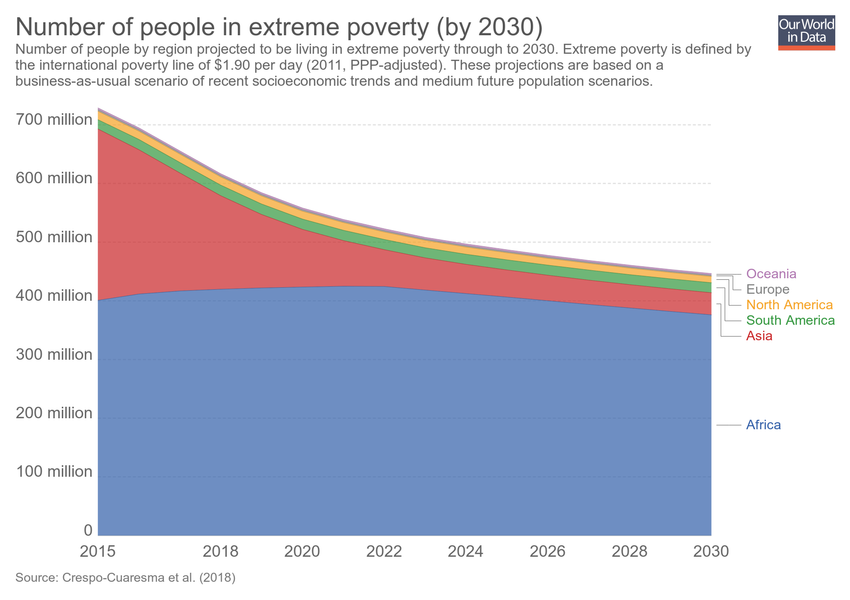
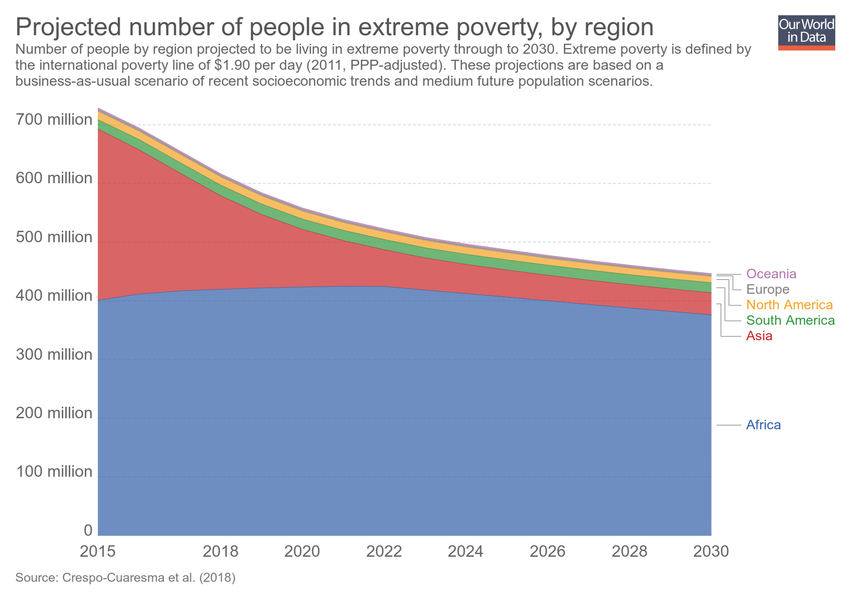
Updating chart extreme-poverty-region-2030

Changed region(s): [[0.0, 0.03, 0.7647, 0.06]]

diff --git a/grapher/extreme-poverty-region-2030.html b/grapher/extreme-poverty-region-2030.html
@@ -1,4 +1,4 @@
-<!doctype html><html><head><meta name="viewport" content="width=device-width, initial-scale=1" /><title>Number of people in extreme poverty (by 2030) - Our World in Data</title><meta name="description" content="Number of people by region projected to be living in extreme poverty through to 2030. Extreme poverty is defined by the international poverty line of $1.90 per day (2011, PPP-adjusted). These projections are based on a business-as-usual scenario of recent socioeconomic trends and medium future population scenarios." /><link rel="canonical" href="https://ourworldindata.org/grapher/extreme-poverty-region-2030" /><meta property="fb:app_id" content="1149943818390250" /><meta property="og:url" content="https://ourworldindata.org/grapher/extreme-poverty-region-2030" /><meta property="og:title" content="Number of people in extreme poverty (by 2030)" /><meta property="og:description" content="Number of people by region projected to be living in extreme poverty through to 2030. Extreme poverty is defined by the international poverty line of $1.90 per day (2011, PPP-adjusted). These projections are based on a business-as-usual scenario of recent socioeconomic trends and medium future population scenarios." /><meta property="og:image" content="https://ourworldindata.org/grapher/exports/extreme-poverty-region-2030.png?v=1" /><meta property="og:image:width" content="850" /><meta property="og:image:height" content="600" /><meta property="og:site_name" content="Our World in Data" /><meta name="twitter:card" content="summary_large_image" /><meta name="twitter:site" content="@OurWorldInData" /><meta name="twitter:creator" content="@OurWorldInData" /><meta name="twitter:title" content="Number of people in extreme poverty (by 2030)" /><meta name="twitter:description" content="Number of people by region projected to be living in extreme poverty through to 2030. Extreme poverty is defined by the international poverty line of $1.90 per day (2011, PPP-adjusted). These projections are based on a business-as-usual scenario of recent socioeconomic trends and medium future population scenarios." /><meta name="twitter:image" content="https://ourworldindata.org/grapher/exports/extreme-poverty-region-2030.png?v=1" /><style>
+<!doctype html><html><head><meta name="viewport" content="width=device-width, initial-scale=1" /><title>Projected number of people in extreme poverty, by region - Our World in Data</title><meta name="description" content="Number of people by region projected to be living in extreme poverty through to 2030. Extreme poverty is defined by the international poverty line of $1.90 per day (2011, PPP-adjusted). These projections are based on a business-as-usual scenario of recent socioeconomic trends and medium future population scenarios." /><link rel="canonical" href="https://ourworldindata.org/grapher/extreme-poverty-region-2030" /><meta property="fb:app_id" content="1149943818390250" /><meta property="og:url" content="https://ourworldindata.org/grapher/extreme-poverty-region-2030" /><meta property="og:title" content="Projected number of people in extreme poverty, by region" /><meta property="og:description" content="Number of people by region projected to be living in extreme poverty through to 2030. Extreme poverty is defined by the international poverty line of $1.90 per day (2011, PPP-adjusted). These projections are based on a business-as-usual scenario of recent socioeconomic trends and medium future population scenarios." /><meta property="og:image" content="https://ourworldindata.org/grapher/exports/extreme-poverty-region-2030.png?v=2" /><meta property="og:image:width" content="850" /><meta property="og:image:height" content="600" /><meta property="og:site_name" content="Our World in Data" /><meta name="twitter:card" content="summary_large_image" /><meta name="twitter:site" content="@OurWorldInData" /><meta name="twitter:creator" content="@OurWorldInData" /><meta name="twitter:title" content="Projected number of people in extreme poverty, by region" /><meta name="twitter:description" content="Number of people by region projected to be living in extreme poverty through to 2030. Extreme poverty is defined by the international poverty line of $1.90 per day (2011, PPP-adjusted). These projections are based on a business-as-usual scenario of recent socioeconomic trends and medium future population scenarios." /><meta name="twitter:image" content="https://ourworldindata.org/grapher/exports/extreme-poverty-region-2030.png?v=2" /><style>
         html, body {
             height: 100%;
             margin: 0;
@@ -20,8 +20,8 @@
         }
     </style><noscript><style>
                     figure { display: none !important; }
-                </style></noscript><link rel="stylesheet" href="https://ourworldindata.org/grapher/assets/commons.bundle.0187c87ba84a83fbad86.css" /><link rel="preload" href="/grapher/data/variables/97936.json?v=1" as="fetch" crossorigin /></head><body class="singleChart"><figure data-grapher-src="/grapher/extreme-poverty-region-2030"></figure><noscript id="fallback"><img src="/grapher/exports/extreme-poverty-region-2030.svg" /><p>Interactive visualization requires JavaScript</p></noscript><script src="https://cdn.polyfill.io/v2/polyfill.min.js?features=es6,fetch"></script><script src="https://ourworldindata.org/grapher/assets/commons.bundle.0187c87ba84a83fbad86.js"></script><script src="https://ourworldindata.org/grapher/assets/charts.bundle.0187c87ba84a83fbad86.js"></script><script>
-        var jsonConfig = {"map":{"projection":"World","colorSchemeLabels":[],"colorSchemeValues":[],"customNumericColors":[],"customCategoryColors":{},"customCategoryLabels":{},"customHiddenCategories":{}},"tab":"chart","slug":"extreme-poverty-region-2030","type":"StackedArea","title":"Number of people in extreme poverty (by 2030)","xAxis":{"scaleType":"linear"},"yAxis":{"min":0,"scaleType":"linear"},"version":1,"subtitle":"Number of people by region projected to be living in extreme poverty through to 2030. Extreme poverty is defined by the international poverty line of $1.90 per day (2011, PPP-adjusted). These projections are based on a business-as-usual scenario of recent socioeconomic trends and medium future population scenarios.","hasMapTab":false,"stackMode":"absolute","dimensions":[{"display":{},"property":"y","variableId":97936}],"sourceDesc":"Crespo-Cuaresma et al. (2018)","hasChartTab":true,"isPublished":true,"selectedData":[{"color":"#b077b1","index":0,"entityId":277},{"color":"#818282","index":0,"entityId":276},{"color":"#f6a324","index":0,"entityId":294},{"color":"#34983f","index":0,"entityId":295},{"color":"#ca2628","index":0,"entityId":275},{"color":"#3360a9","index":0,"entityId":273}],"addCountryMode":"disabled","id":3010};
+                </style></noscript><link rel="stylesheet" href="https://ourworldindata.org/grapher/assets/commons.bundle.0187c87ba84a83fbad86.css" /><link rel="preload" href="/grapher/data/variables/97936.json?v=2" as="fetch" crossorigin /></head><body class="singleChart"><figure data-grapher-src="/grapher/extreme-poverty-region-2030"></figure><noscript id="fallback"><img src="/grapher/exports/extreme-poverty-region-2030.svg" /><p>Interactive visualization requires JavaScript</p></noscript><script src="https://cdn.polyfill.io/v2/polyfill.min.js?features=es6,fetch"></script><script src="https://ourworldindata.org/grapher/assets/commons.bundle.0187c87ba84a83fbad86.js"></script><script src="https://ourworldindata.org/grapher/assets/charts.bundle.0187c87ba84a83fbad86.js"></script><script>
+        var jsonConfig = {"id":3010,"map":{"projection":"World","colorSchemeLabels":[],"colorSchemeValues":[],"customNumericColors":[],"customCategoryColors":{},"customCategoryLabels":{},"customHiddenCategories":{}},"tab":"chart","slug":"extreme-poverty-region-2030","type":"StackedArea","title":"Projected number of people in extreme poverty, by region","xAxis":{"scaleType":"linear"},"yAxis":{"min":0,"scaleType":"linear"},"version":2,"subtitle":"Number of people by region projected to be living in extreme poverty through to 2030. Extreme poverty is defined by the international poverty line of $1.90 per day (2011, PPP-adjusted). These projections are based on a business-as-usual scenario of recent socioeconomic trends and medium future population scenarios.","hasMapTab":false,"stackMode":"absolute","dimensions":[{"display":{},"property":"y","variableId":97936}],"sourceDesc":"Crespo-Cuaresma et al. (2018)","hasChartTab":true,"isPublished":true,"selectedData":[{"color":"#b077b1","index":0,"entityId":277},{"color":"#818282","index":0,"entityId":276},{"color":"#f6a324","index":0,"entityId":294},{"color":"#34983f","index":0,"entityId":295},{"color":"#ca2628","index":0,"entityId":275},{"color":"#3360a9","index":0,"entityId":273}],"addCountryMode":"disabled"};
         var figure = document.getElementsByTagName("figure")[0];
         try {
             window.App = {};
